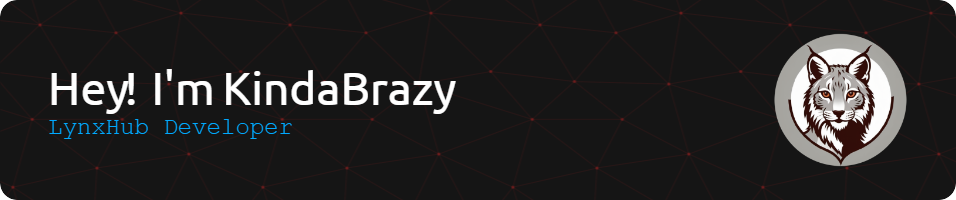
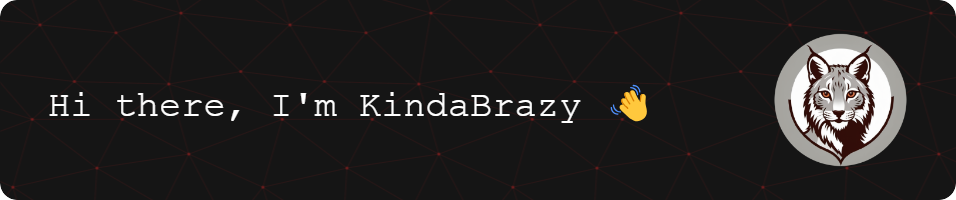
.

Changed region(s): [[0.0303, 0.33, 0.6067, 0.69], [0.637, 0.42, 0.6977, 0.6]]

diff --git a/README.md b/README.md
@@ -2,19 +2,13 @@
 
 ![Header](./resources/HeaderImage.png)
 
-</div>
-
----
-
-<div align="center">
-
-### Hi there, I'm KindaBrazy 👋
-
 I'm a passionate developer focused on building robust and efficient desktop applications. I love exploring new
 technologies
 and bringing ideas to life through code.
 
 </div>
+
+---
 
 ---
 
